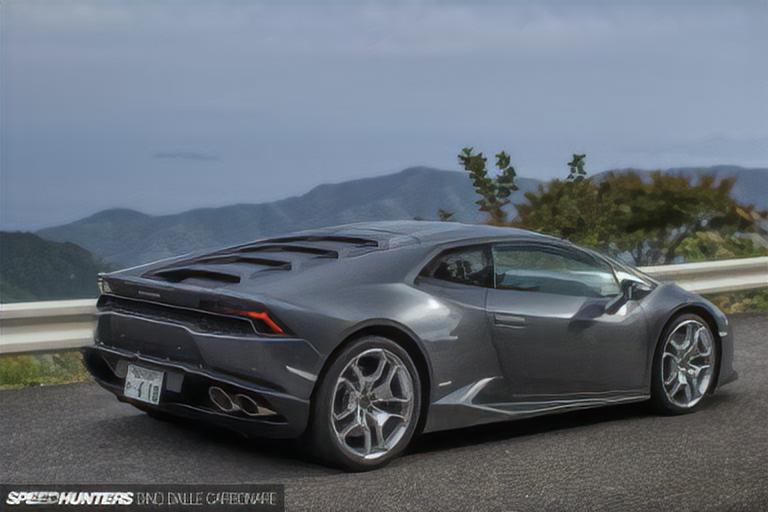
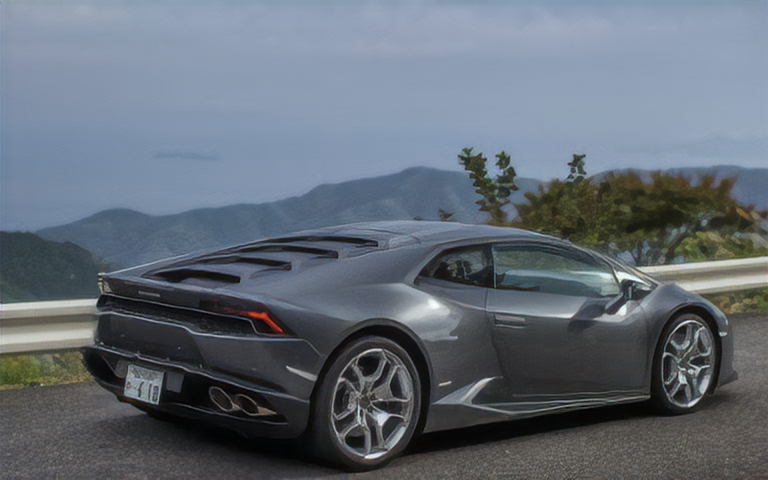
Perform real upscaling in resource

diff --git a/service/resource_upscale.py b/service/resource_upscale.py
@@ -1,11 +1,32 @@
+import io
 import base64
-
+import numpy as np
+from PIL import Image
+from ISR.models import RDN
 from message_protocol.upscale_input import UpscaleInput
 from message_protocol.upscale_output import UpscaleOutput
 
 
+MODEL = RDN(weights='noise-cancel')
+
 class ResourceUpscale:
     def main(self, upscaleInput: UpscaleInput) -> UpscaleOutput:
-        imageBytesArray = base64.b64decode(upscaleInput.imageBase64)
+        # Parse base64 string into bytes array
+        inputImageBytesArray = base64.b64decode(upscaleInput.imageBase64)
 
-        return UpscaleOutput(upscaleInput.imageBase64)
+        # Open the image
+        imagePil = Image.open(io.BytesIO(inputImageBytesArray))
+        imageNumpy = np.array(imagePil)
+
+        # Scale the image
+        scaledNumpy = MODEL.predict(imageNumpy)
+        scaledPil = Image.fromarray(scaledNumpy)
+
+        # Write scaled image as bytes array
+        outputImageBytesArrayIO = io.BytesIO()
+        scaledPil.save(outputImageBytesArrayIO, format=imagePil.format, quality=100)
+        outputImageBytesArray = outputImageBytesArrayIO.getvalue()
+
+        # Convert back to base64 string
+        outputImageBase64 = base64.b64encode(outputImageBytesArray).decode('utf-8')
+        return UpscaleOutput(outputImageBase64)
